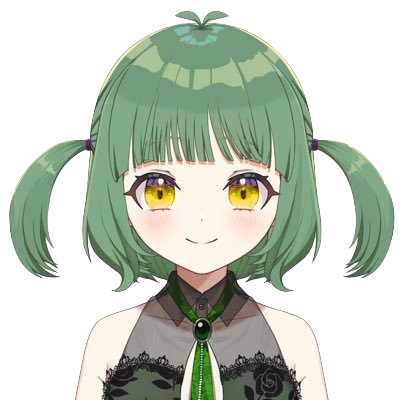
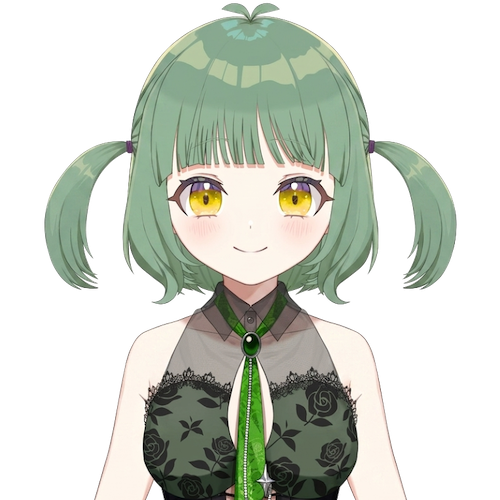
deploy: Live2D画像差し替え (26WH004) v202604220800

diff --git a/public/sw.js b/public/sw.js
@@ -1,5 +1,5 @@
 // キャッシュの名前（バージョン管理用）
-const CACHE_NAME = 'v202604220015';
+const CACHE_NAME = 'v202604220800';
 
 // 1. インストール時の処理
 self.addEventListener('install', (event) => {
